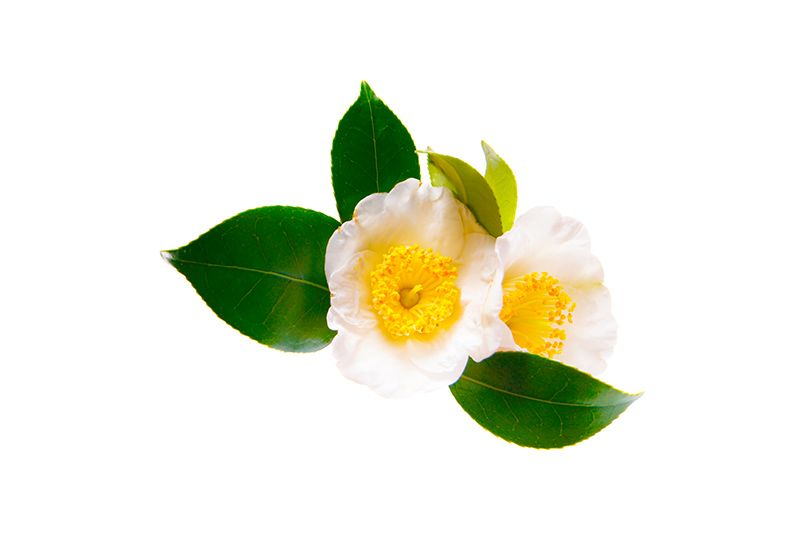
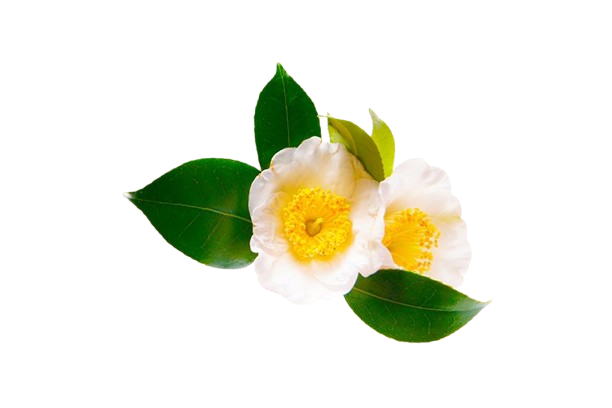
tela inicial perfeita parte 2

diff --git a/site de acesso ao sistema clfl/static/styles/style.css b/site de acesso ao sistema clfl/static/styles/style.css
@@ -27,7 +27,7 @@ main,
 .content {
     flex: 1;
     width: 100%;
-    max-width: 1300px;
+    max-width: 100%;
     margin: 1.5rem auto;
     padding: 1rem 3rem;
     background: #fff;
@@ -264,7 +264,7 @@ footer {
     align-items: center;
     justify-content: center;
     overflow: visible;
-    margin-left: 200px;
+    margin-left: 80px;
 }
 
 .sensor-hero img {
@@ -751,14 +751,14 @@ footer {
     position: fixed;
     bottom: -40px;
     left: 20px;
-    width: 130px;
+    width: 200px;
     z-index: 1;
     pointer-events: none; 
     user-select: none;
 }
 @media (max-width: 768px) {
     .folha-decorativa {
-        width: 80px;
+        width: 120px;
         left: 10px;
     }
 }
